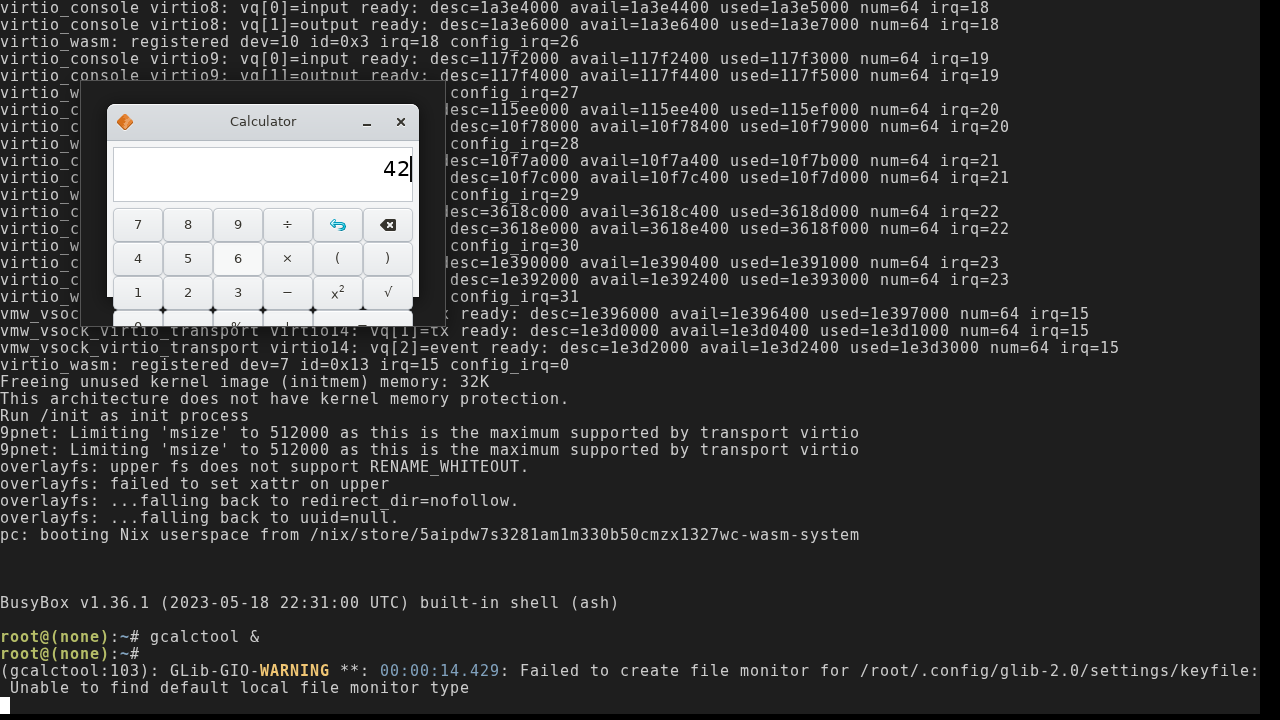
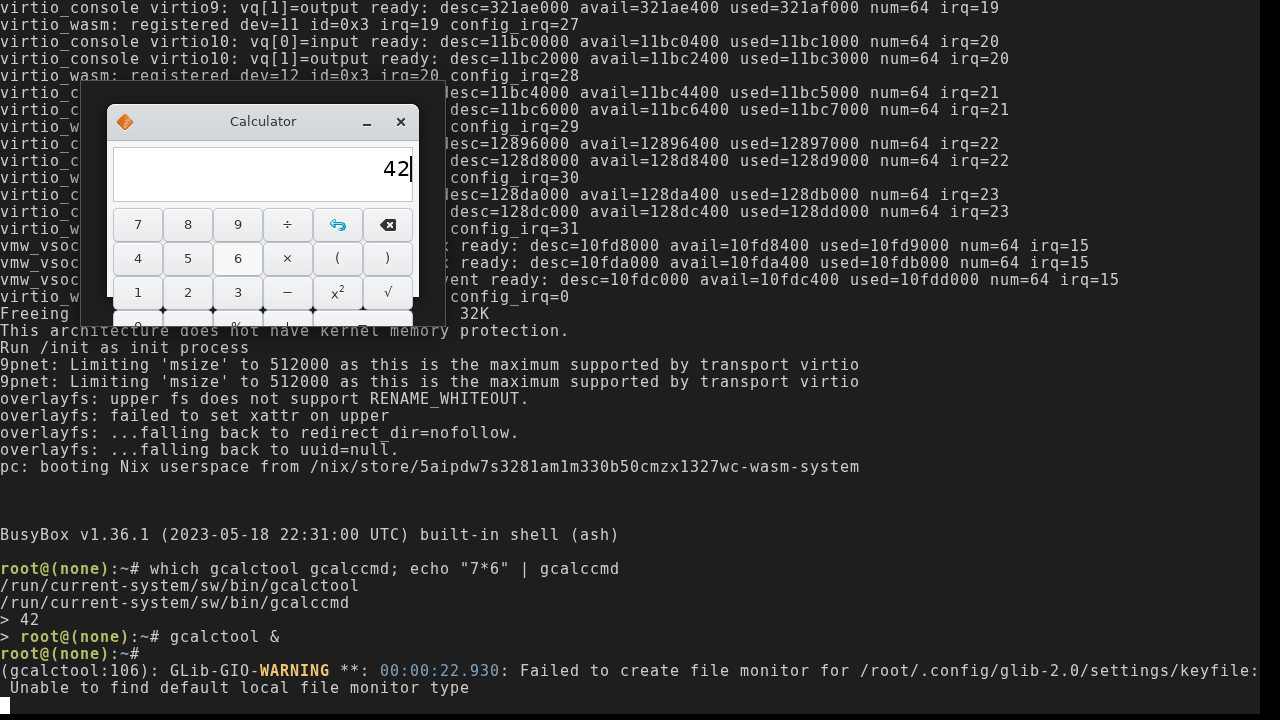
docs: re-verify gcalctool click-to-42 on the final artifact shape (squashfs PATH)
Claude-Session: https://claude.ai/code/session_015KkmLqW1no748JxDyg8dkL

diff --git a/docs/superpowers/notes/gcalctool-visual.md b/docs/superpowers/notes/gcalctool-visual.md
@@ -1,7 +1,9 @@
 # gcalctool — browser visual acceptance: click 7 × 6 = 42
 
 **Status: VERIFIED 2026-07-11 — on the PR #142 preview artifacts (commit
-`ee8880c7`), before merge.**
+`2dd58db7`, the final artifact shape: gcalctool loads from the squashfs via
+PATH at `/run/current-system/sw/bin`, deliberately NOT in the initramfs
+extraBins — see the NOMMU contiguous-alloc note in the smoke), before merge.**
 
 ![gcalctool showing 42 after clicking 7 × 6](./gcalctool-42.png)
 
